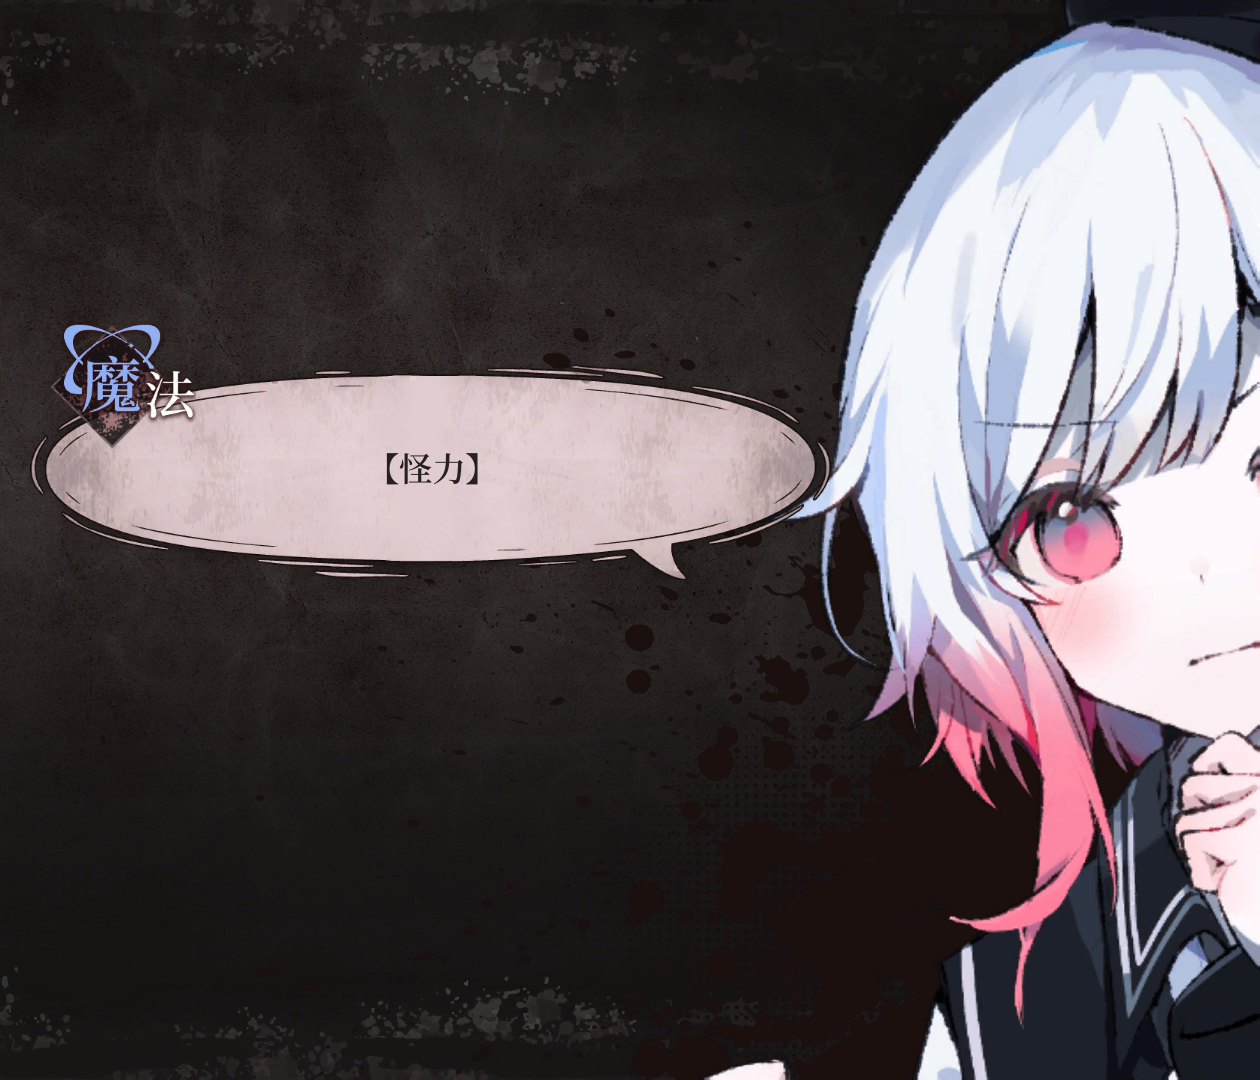
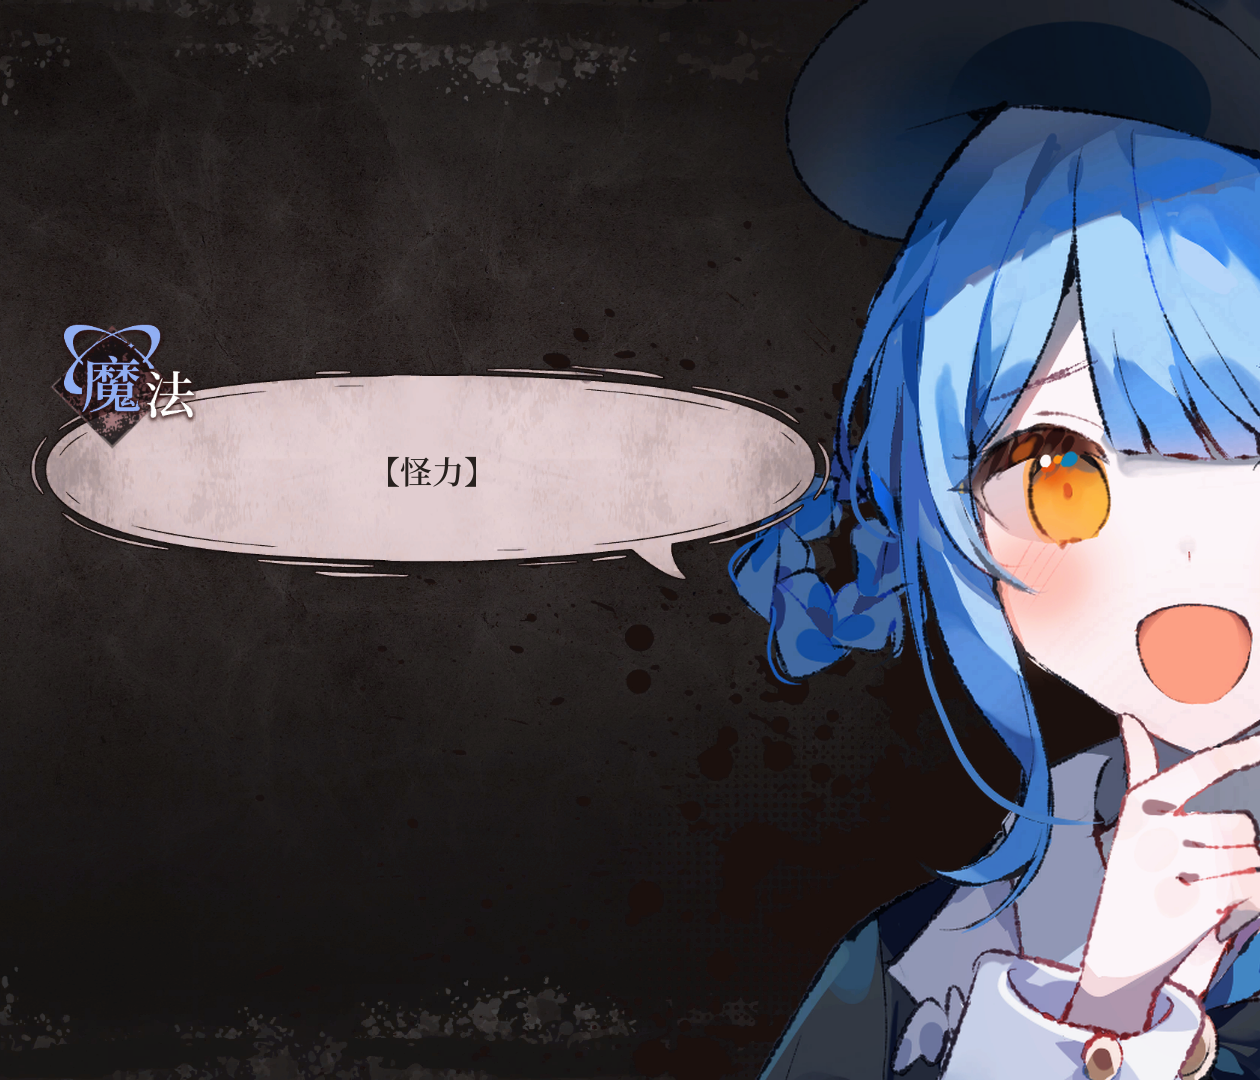
feat: support all trial characters

Changed region(s): [[0.5571, 0.0, 1.0, 1.0], [0.3095, 0.3972, 0.3714, 0.4583]]

diff --git a/nonebot_plugin_manosaba_memes/__init__.py b/nonebot_plugin_manosaba_memes/__init__.py
@@ -1,34 +1,35 @@
 import re
 from collections import defaultdict
 
-from nonebot import require, on_regex
+from nonebot import on_regex, require
 from nonebot.internal.adapter import Bot, Event
 from nonebot.plugin import PluginMetadata, inherit_supported_adapters
 
 require("nonebot_plugin_alconna")
 
-from nonebot_plugin_alconna import (  # noqa: E402
-    Args,
+from nonebot_plugin_alconna import (
     Alconna,
+    Args,
     Arparma,
-    on_alconna,
-    UniMessage,
     CommandMeta,
+    UniMessage,
+    on_alconna,
 )
 
-from .models import Option  # noqa: E402
-from .drawer import draw_anan, draw_trial  # noqa: E402
-from .utils import get_statement, get_character  # noqa: E402
+from .drawer import draw_anan, draw_trial
+from .models import Option
+from .utils import CHARACTER_NAMES, get_character, get_statement
 
+CHARACTER_NAMES_TEXT = ", ".join(CHARACTER_NAMES)
 
-usage = """
+usage = f"""
 安安说 [文本] [表情]
     表情可选：害羞, 生气, 病娇, 无语, 开心
 切换角色 [角色名]
-    角色名可选：艾玛, 希罗
+    角色名可选：{CHARACTER_NAMES_TEXT}
 发送格式如下的消息以生成审判表情包：
 【疑问/反驳/伪证/赞同/魔法:[角色名]】这是一个选项文本
-    角色名可选：梅露露, 诺亚, 汉娜, 奈叶香, 亚里沙, 米莉亚, 雪莉, 艾玛, 玛格, 安安, 可可, 希罗, 蕾雅
+    角色名可选：{CHARACTER_NAMES_TEXT}
     可发送多行以添加多个选项
 """.strip()
 
@@ -66,7 +67,7 @@ switch_character_handler = on_alconna(
         Args["character", str],
         meta=CommandMeta(
             description="切换审判选择中的角色",
-            usage="切换角色 [角色名]\n角色名可选：艾玛, 希罗",
+            usage=f"切换角色 [角色名]\n角色名可选：{CHARACTER_NAMES_TEXT}",
             example="切换角色 希罗",
         ),
     ),
@@ -90,7 +91,7 @@ async def handle_trail(bot: Bot, event: Event):
     matches = re.findall(
         r"^【(疑问|反驳|伪证|赞同|魔法)(?:[:：]([^】]*))?】(.+)$",
         event.get_message().extract_plain_text(),
-        flags=re.M,
+        flags=re.MULTILINE,
     )
 
     options = []
@@ -101,12 +102,12 @@ async def handle_trail(bot: Bot, event: Event):
             if arg:
                 await trail_handler.finish(
                     f"角色 {arg} 无效，请从以下选项中选择："
-                    "梅露露, 诺亚, 汉娜, 奈叶香, 亚里沙, 米莉亚, 雪莉, 艾玛, 玛格, 安安, 可可, 希罗, 蕾雅"
+                    f"{CHARACTER_NAMES_TEXT}"
                 )
             else:
                 await trail_handler.finish(
                     "魔法类型无效，请输入【魔法:角色】格式。可选的角色有："
-                    "梅露露, 诺亚, 汉娜, 奈叶香, 亚里沙, 米莉亚, 雪莉, 艾玛, 玛格, 安安, 可可, 希罗, 蕾雅"
+                    f"{CHARACTER_NAMES_TEXT}"
                 )
         options.append(Option(statement_enum, text))
 
@@ -121,12 +122,11 @@ async def handle_trail(bot: Bot, event: Event):
 
 @switch_character_handler.handle()
 async def handle_switch_character(evemt: Event, result: Arparma):
-    global CHARACTER_MAP
     character_name = result["character"]
     try:
         CHARACTER_MAP[evemt.get_user_id()] = get_character(character_name)
         await switch_character_handler.finish(f"已切换角色为 {character_name}")
     except KeyError:
         await switch_character_handler.finish(
-            f"角色名 {character_name} 无效，请选择 艾玛 或 希罗"
+            f"角色名 {character_name} 无效，请选择：{CHARACTER_NAMES_TEXT}"
         )

diff --git a/nonebot_plugin_manosaba_memes/drawer.py b/nonebot_plugin_manosaba_memes/drawer.py
@@ -1,27 +1,30 @@
 import math
 from pathlib import Path
-from typing import Optional, List, Tuple
 
 from sketchbook import (
-    Layer,
     Align,
-    VAlign,
     Drawer,
-    Region,
     FontSet,
+    Layer,
+    ParseRule,
+    Region,
+    ScaleMode,
     StyleMod,
     TextStyle,
-    ParseRule,
-    ScaleMode,
+    VAlign,
 )
 
 from .models import Character, Option, Statement
-
+from .utils import get_png_size
 
 PLUGIN_PATH = Path(__file__).parent
+TRIAL_ASSET_PATH = PLUGIN_PATH / "assets/trial"
+TRIAL_CHARACTER_PATH = TRIAL_ASSET_PATH / "characters"
+TRIAL_STATEMENT_PATH = TRIAL_ASSET_PATH / "statements"
+TRIAL_UI_PATH = TRIAL_ASSET_PATH / "ui"
 
 
-def get_anan_base_image(face: Optional[str] = None) -> str:
+def get_anan_base_image(face: str | None = None) -> str:
     """Get the base image path for Anan's face
 
     Args:
@@ -36,7 +39,7 @@ def get_anan_base_image(face: Optional[str] = None) -> str:
         return str(PLUGIN_PATH / f"assets/anan/{face}.png")
 
 
-def draw_anan(text: str, face: Optional[str] = None) -> bytes:
+def draw_anan(text: str, face: str | None = None) -> bytes:
     """Draw the image of what Anan says
 
     Args:
@@ -87,10 +90,10 @@ def get_statement_image(statement: Statement) -> str:
         Statement.MAGIC_SHINIMODORI: "magic_shinimodori.png",
         Statement.MAGIC_SHISENYUUDOU: "magic_shisenyuudou.png",
     }
-    return str(PLUGIN_PATH / f"assets/trial/{mapping[statement]}")
+    return str(TRIAL_STATEMENT_PATH / mapping[statement])
 
 
-def get_option_coordinates(number: int) -> List[Tuple[int, int]]:
+def get_option_coordinates(number: int) -> list[tuple[int, int]]:
     """Get the coordinates for drawing options based on the number of options
 
     Args:
@@ -125,7 +128,7 @@ def get_option_coordinates(number: int) -> List[Tuple[int, int]]:
         ]
 
 
-def draw_trial(character: Character, options: List[Option]) -> bytes:
+def draw_trial(character: Character, options: list[Option]) -> bytes:
     """Draw the trial image for a character saying an option
 
     Args:
@@ -136,20 +139,21 @@ def draw_trial(character: Character, options: List[Option]) -> bytes:
         bytes: The image bytes of the drawn image
     """
     fonts = FontSet(str(PLUGIN_PATH / "assets/fonts/SourceHanSerifSC.otf"))
-    drawer = Drawer.from_image(str(PLUGIN_PATH / "assets/trial/black.png"), fonts)
+    drawer = Drawer.from_image(str(TRIAL_UI_PATH / "black.png"), fonts)
     drawer.layer(
         Layer("background").image_fit(
-            str(PLUGIN_PATH / "assets/trial/background.png"),
+            str(TRIAL_UI_PATH / "background.png"),
             Region(0, 0, 1260, 1080),
             scale=ScaleMode.Stretch,
         )
     )
 
-    character_image = "ema.png" if character == Character.EMA else "hiro.png"
+    character_image = TRIAL_CHARACTER_PATH / f"{character.value.lower()}.png"
+    character_width, character_height = get_png_size(character_image)
     drawer.layer(
         Layer("character").image_fit(
-            str(PLUGIN_PATH / "assets/trial" / character_image),
-            Region(667, 0, 593, 1080),
+            str(character_image),
+            Region(1260 - character_width, 0, character_width, character_height),
             scale=ScaleMode.Stretch,
         )
     )
@@ -159,7 +163,7 @@ def draw_trial(character: Character, options: List[Option]) -> bytes:
         # Option background
         drawer.layer(
             Layer(f"option_bg_{idx}").image_fit(
-                str(PLUGIN_PATH / "assets/trial/option.png"),
+                str(TRIAL_UI_PATH / "option.png"),
                 Region(x, y, 802, 216),
                 scale=ScaleMode.Stretch,
             )

diff --git a/nonebot_plugin_manosaba_memes/utils.py b/nonebot_plugin_manosaba_memes/utils.py
@@ -1,6 +1,31 @@
-from typing import Optional
+import struct
+from pathlib import Path
 
-from .models import Statement, Character
+from .models import Character, Statement
+
+CHARACTER_NAME_MAP = {
+    "梅露露": Character.MERURU,
+    "诺亚": Character.NOAH,
+    "汉娜": Character.HANNA,
+    "奈叶香": Character.NANOKA,
+    "亚里沙": Character.ALISA,
+    "米莉亚": Character.MIRIA,
+    "雪莉": Character.SHERRY,
+    "艾玛": Character.EMA,
+    "玛格": Character.MARGO,
+    "安安": Character.ANAN,
+    "可可": Character.COCO,
+    "希罗": Character.HIRO,
+    "蕾雅": Character.LEIA,
+}
+CHARACTER_NAMES = tuple(CHARACTER_NAME_MAP)
+
+
+def get_png_size(file_path: Path) -> tuple[int, int]:
+    """Read a PNG image's width and height from its IHDR chunk."""
+    with file_path.open("rb") as file:
+        file.seek(16)
+        return struct.unpack(">II", file.read(8))
 
 
 def get_magic_statement(text: str) -> Statement:
@@ -30,7 +55,7 @@ def get_magic_statement(text: str) -> Statement:
     return mapping[text]
 
 
-def get_statement(statement: str, arg: Optional[str] = None) -> Statement:
+def get_statement(statement: str, arg: str | None = None) -> Statement:
     """Convert a string statement type to a Statement enum
 
     Args:
@@ -64,8 +89,4 @@ def get_character(character: str) -> Character:
     Returns:
         Character: The corresponding Character enum
     """
-    mapping = {
-        "艾玛": Character.EMA,
-        "希罗": Character.HIRO,
-    }
-    return mapping[character]
+    return CHARACTER_NAME_MAP[character]

diff --git a/nonebot_plugin_manosaba_memes/models.py b/nonebot_plugin_manosaba_memes/models.py
@@ -4,14 +4,23 @@ from enum import Enum
 class StrEnum(str, Enum):
     """String Enum base class"""
 
-    pass
-
 
 class Character(StrEnum):
     """Characters available for trail drawing"""
 
+    MERURU = "Meruru"
+    NOAH = "Noah"
+    HANNA = "Hanna"
+    NANOKA = "Nanoka"
+    ALISA = "Alisa"
+    MIRIA = "Miria"
+    SHERRY = "Sherry"
     EMA = "Ema"
+    MARGO = "Margo"
+    ANAN = "AnAn"
+    COCO = "Coco"
     HIRO = "Hiro"
+    LEIA = "Leia"
 
 
 class Statement(StrEnum):

diff --git a/README.md b/README.md
@@ -57,7 +57,7 @@ _✨ [NoneBot2](https://github.com/nonebot/nonebot2) 魔法少女的魔女审判
 | ![trail_example3](./previews/trial03.png) | ![trail_example4](./previews/trial04.png) |
 
 **注意**:
-1. 使用 `切换角色 [艾玛/希罗]` 可以切换角色，角色与用户绑定
+1. 使用 `切换角色 [角色名]` 可以切换角色，角色与用户绑定。可选角色：梅露露, 诺亚, 汉娜, 奈叶香, 亚里沙, 米莉亚, 雪莉, 艾玛, 玛格, 安安, 可可, 希罗, 蕾雅
 2. 多行文本会被识别为多条选项。选项数量没有上限，但 3 条以内效果最佳
 3. 魔法选项中的角色为官方中文角色译名，即：梅露露, 诺亚, 汉娜, 奈叶香, 亚里沙, 米莉亚, 雪莉, 艾玛, 玛格, 安安, 可可, 希罗, 蕾雅
 
